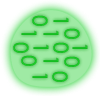
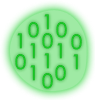
HackerArea now gets spawned in on map

diff --git a/core/src/com/mygdx/chalmersdefense/views/AbstractScreen.java b/core/src/com/mygdx/chalmersdefense/views/AbstractScreen.java
@@ -121,6 +121,9 @@ public abstract class AbstractScreen extends Stage implements Screen {
         spriteMap.put("hackerProjectile1", new Sprite(new Texture("projectiles/hackerProjectile1.png")));
         spriteMap.put("hackerProjectile2", new Sprite(new Texture("projectiles/hackerProjectile2.png")));
         spriteMap.put("hackerProjectile3", new Sprite(new Texture("projectiles/hackerProjectile3.png")));
+        spriteMap.put("hackerArea1", new Sprite(new Texture("projectiles/hackerArea1.png")));
+        spriteMap.put("hackerArea2", new Sprite(new Texture("projectiles/hackerArea2.png")));
+        spriteMap.put("hackerArea3", new Sprite(new Texture("projectiles/hackerArea3.png")));
         spriteMap.put("electroProjectile1", new Sprite(new Texture("projectiles/electroProjectile1.png")));
         spriteMap.put("electroProjectile2", new Sprite(new Texture("projectiles/electroProjectile2.png")));
         spriteMap.put("electroProjectile3", new Sprite(new Texture("projectiles/electroProjectile3.png")));

diff --git a/core/src/com/mygdx/chalmersdefense/model/projectiles/AcidProjectile.java b/core/src/com/mygdx/chalmersdefense/model/projectiles/AcidProjectile.java
@@ -19,7 +19,7 @@ class AcidProjectile extends Projectile {
     @Override
     public void virusIsHit(int haveHit, float angle) {
         // -60 because the acid pool image is 120x120 in size, and it needs to be placed centered
-        int upgradeLevel = getSpriteKey().charAt(getSpriteKey().length()-1);
+        int upgradeLevel = Character.getNumericValue(getSpriteKey().charAt(getSpriteKey().length() - 1));
         projectileList.add(new AcidPool(getX() - 60, getY() - 60, upgradeLevel));
         super.virusIsHit(haveHit, angle);
     }

diff --git a/core/src/com/mygdx/chalmersdefense/model/projectiles/MatrixProjectile.java b/core/src/com/mygdx/chalmersdefense/model/projectiles/MatrixProjectile.java
@@ -16,5 +16,11 @@ class MatrixProjectile extends Projectile{
         this.projectileList = projectileList;
     }
 
-
+    @Override
+    public void virusIsHit(int haveHit, float angle) {
+        // -50 because the matrix area is around 100 x 100 in size
+        int upgradeLevel = Character.getNumericValue(getSpriteKey().charAt(getSpriteKey().length() - 1));
+        projectileList.add(new MatrixArea(getX() - 50, getY() - 50, upgradeLevel));
+        super.virusIsHit(haveHit, angle);
+    }
 }
